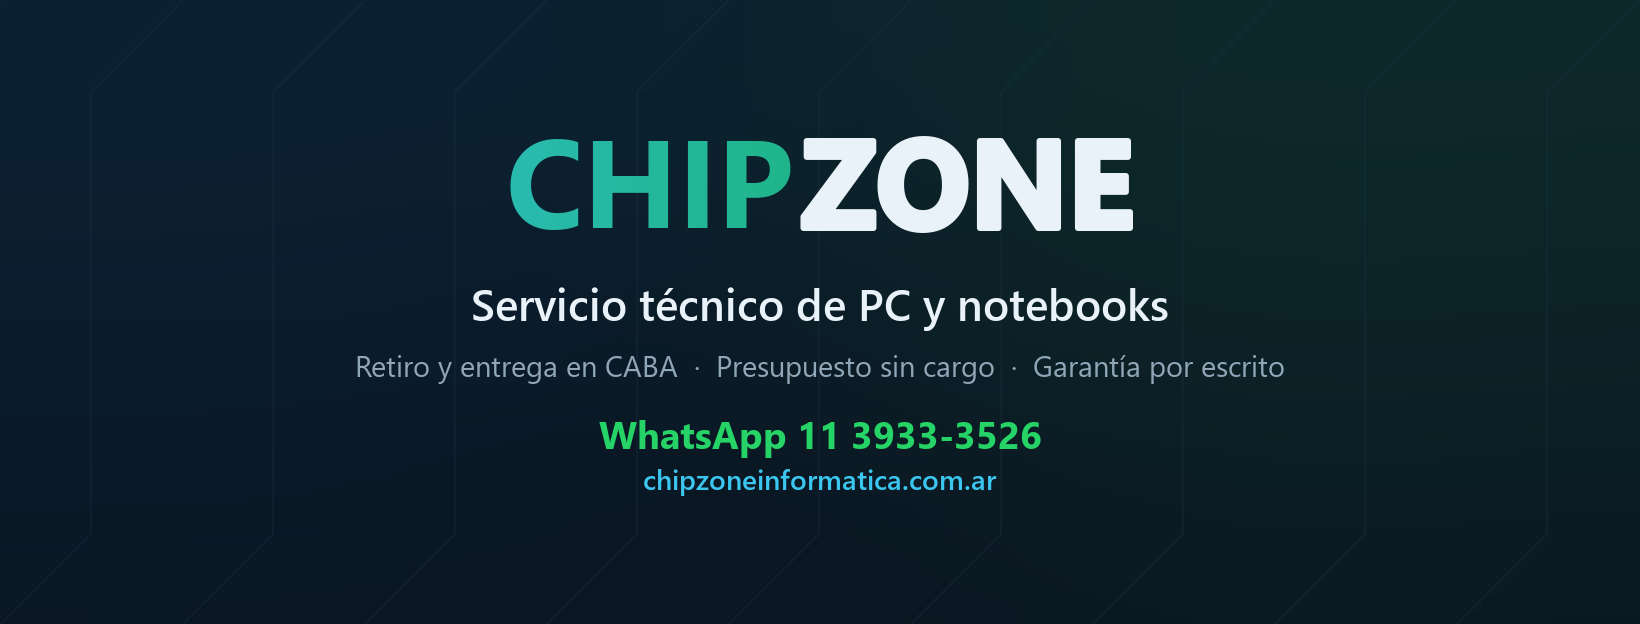
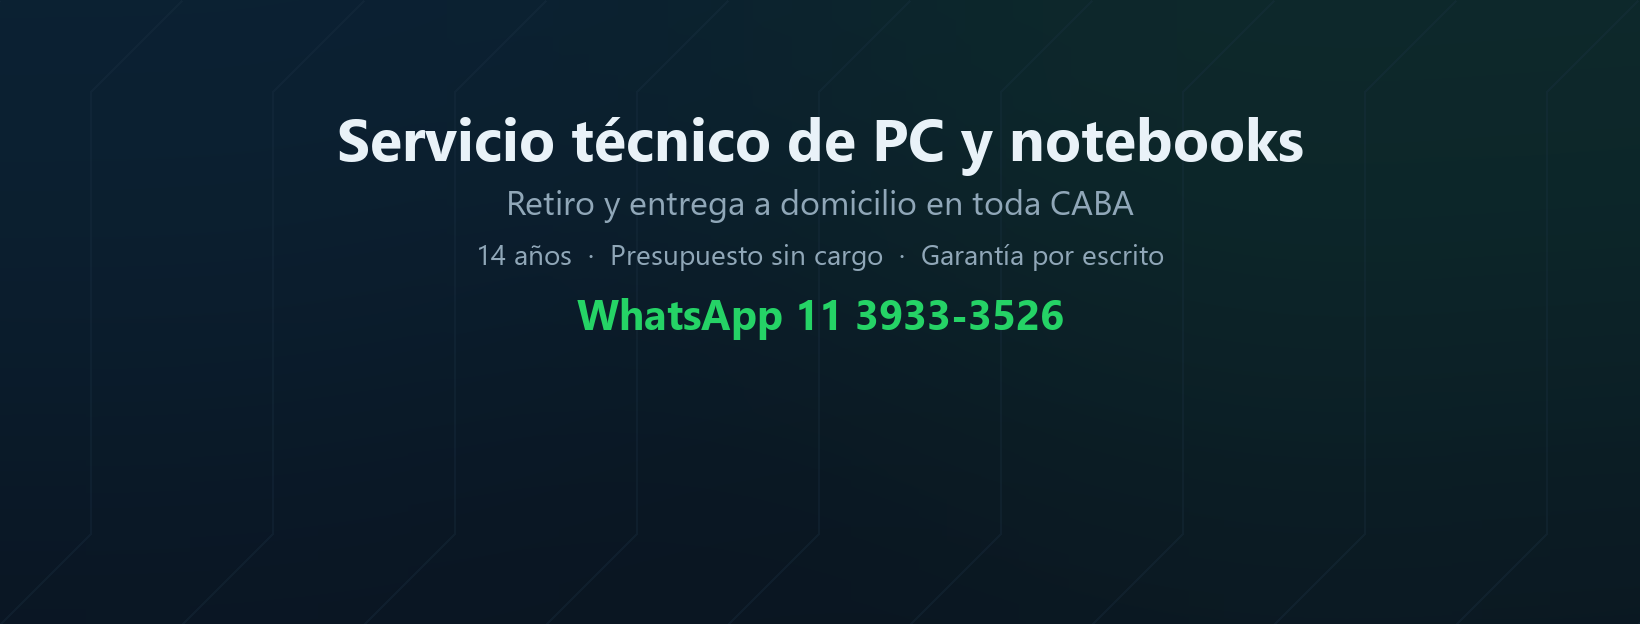
portada: subir todo el texto - la foto de perfil tapaba el WhatsApp
La foto de perfil de Facebook se superpone sobre el centro-abajo de la
portada, justo donde estaban el telefono y el dominio. Ahora todo el texto
va en la mitad de arriba y la mitad inferior queda libre para el circulo.

De paso se saca el wordmark CHIPZONE: el logo del usuario ya esta en la
foto de perfil, al lado quedaba repetido. La portada ahora dice lo que el
logo no dice (que hace, donde y como contactarlo).

diff --git a/marca/generar_imagenes.py b/marca/generar_imagenes.py
@@ -169,20 +169,34 @@ def _lamina(w, h, tam_marca, y_marca, lineas, ruta):
 def portada(w=1640, h=624):
     """Portada de la página de Facebook.
 
-    El celular recorta los costados, así que todo el texto va centrado y
-    dentro de la franja central.
+    DOS restricciones que mandan el diseño:
+
+    1. **La foto de perfil se superpone sobre el centro-abajo** de la
+       portada y tapa lo que haya ahí. Por eso TODO el texto va en la
+       mitad de arriba: nada por debajo del 50% de la altura.
+    2. El celular recorta los costados, así que todo va centrado.
+
+    Tampoco lleva el wordmark: la foto de perfil ya tiene el logo, y
+    repetirlo al lado queda redundante. La portada se usa para decir qué
+    hacés y cómo contactarte, que es lo que el logo no dice.
     """
-    return _lamina(
-        w, h, tam_marca=int(h * 0.20), y_marca=h * 0.15,
-        lineas=[
-            ("Servicio técnico de PC y notebooks", int(h * 0.072), ON_PCB, SEMI, h * 0.115),
-            ("Retiro y entrega en CABA  ·  Presupuesto sin cargo  ·  Garantía por escrito",
-             int(h * 0.048), ON_PCB_DIM, REG, h * 0.10),
-            ("WhatsApp 11 3933-3526", int(h * 0.062), WA, BOLD, h * 0.082),
-            ("chipzoneinformatica.com.ar", int(h * 0.045), CYAN, SEMI, 0),
-        ],
-        ruta=os.path.join(AQUI, "portada.png"),
-    )
+    img = fondo(w, h).convert("RGBA")
+    d = ImageDraw.Draw(img)
+
+    lineas = [
+        ("Servicio técnico de PC y notebooks", int(h * 0.095), ON_PCB, BOLD, 0.155),
+        ("Retiro y entrega a domicilio en toda CABA", int(h * 0.055), ON_PCB_DIM, REG, 0.285),
+        ("14 años  ·  Presupuesto sin cargo  ·  Garantía por escrito",
+         int(h * 0.046), ON_PCB_DIM, REG, 0.375),
+        ("WhatsApp 11 3933-3526", int(h * 0.068), WA, BOLD, 0.455),
+    ]
+    for texto, tam, color, ruta_fuente, y_rel in lineas:
+        f = fuente(ruta_fuente, tam)
+        d.text(((w - ancho(d, texto, f)) / 2, h * y_rel), texto, font=f, fill=color)
+
+    ruta = os.path.join(AQUI, "portada.png")
+    img.convert("RGB").save(ruta, "PNG")
+    return ruta
 
 
 def og(w=1200, h=630):
